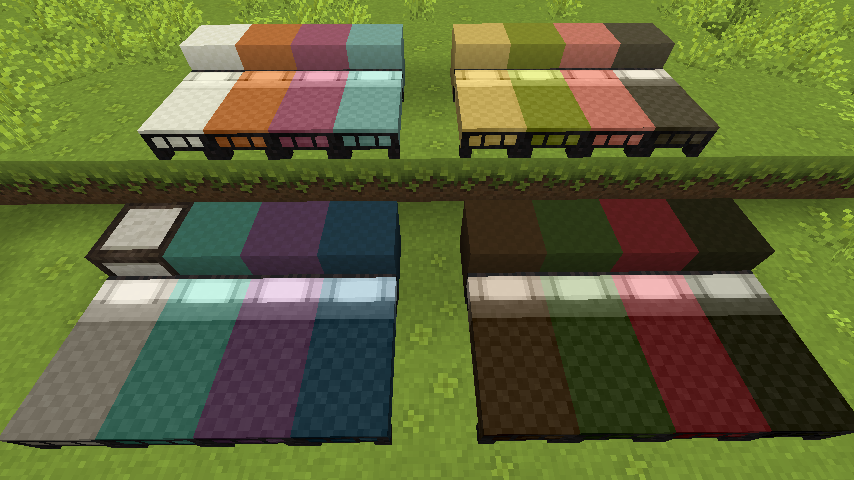
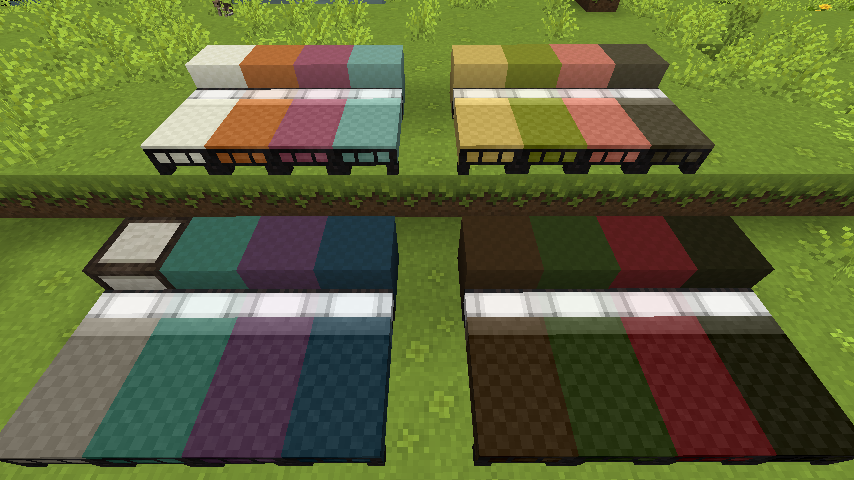
fixup bed colors, pillow and sheets are whiten.

diff --git a/data/assets/minecraft/textures/entity/bed/make-beds.py b/data/assets/minecraft/textures/entity/bed/make-beds.py
@@ -3,14 +3,18 @@ import os
 import sys
 from PIL import Image
 from pathlib import Path
-from wool_colors import colors
+from colors import colors
 
 class BedPart:
-	def __init__(self, name, y1, y2, cap):
+	def __init__(self, name, y1, y2, cap, whiten_ratio=0.0):
 		self.name = name
 		self.y1   = y1
 		self.y2   = y2
 		self.cap  = cap
+		self.wratio = whiten_ratio  # 0.0 .. 1.0
+
+	def whiten(self, code):
+		return tuple(map(lambda c: int(c + (255 - c) * self.wratio), code))
 
 def main():
 	frame = Image.open("bed-frame.png")
@@ -18,40 +22,43 @@ def main():
 	mask_avg = 0x43 # (0x434343)
 
 	bed_parts = (
-		#       name        , y1, y2, cap.
-		BedPart('pillow'    ,  0, 13, 250),
+		#       name        , y1, y2, cap, whiten
+		BedPart('pillow'    ,  0, 13, 250, 0.8),
 		BedPart('cover-head', 13, 17, 255),
 		BedPart('cover-sep' , 17, 18, 220),
 		BedPart('cover-body', 18, 64, 250),
 	)
+
 	for color in colors:
 		im = Image.new(mask.mode, mask.size)
 		for part in bed_parts:
 			px_max = 0
+			memo = {}
+			part_color = part.whiten(color.code)
 			for y in range(part.y1, part.y2):
 				for x in range(im.width):
 					mask_px = mask.getpixel((x,y))
 					if len(mask_px) == 4 and mask_px[3] == 0:
-						px = frame.getpixel((x,y))
-					else:
-						px = [0,0,0]
-						px[0] = color.code[0] + mask_px[0] - mask_avg
-						px[1] = color.code[1] + mask_px[1] - mask_avg
-						px[2] = color.code[2] + mask_px[2] - mask_avg
-						px_max = max(px_max, *px)
-					im.putpixel((x,y), tuple(px))
+						# not in color mask.
+						im.putpixel((x,y), frame.getpixel((x,y)))
+						continue
+
+					px = tuple(map(
+						lambda x: x[0] + x[1] - mask_avg,
+						zip(part_color, mask_px)
+					))
+					im.putpixel((x,y), px)
+
+					memo[(x,y)] = px
+					px_max = max(px_max, *px)
 
 			if px_max > part.cap:
 				over = px_max - part.cap
 				print("%s.%s: overflow (+%d)" % (color.name, part.name, over))
 				for y in range(part.y1, part.y2):
 					for x in range(64):
-						px = mask.getpixel((x,y))
-						if not (len(px) == 4 and px[3] == 0):
-							px = list(px)
-							px[0] = color.code[0] + px[0] - mask_avg - over
-							px[1] = color.code[1] + px[1] - mask_avg - over
-							px[2] = color.code[2] + px[2] - mask_avg - over
+						if (x,y) in memo:
+							px = [c - over for c in memo[(x,y)]]
 							im.putpixel((x,y), tuple(px))
 
 		im.save("%s.png" % color.name)
